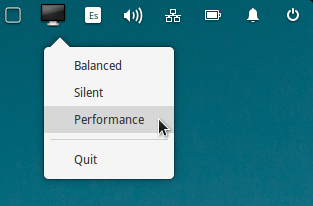
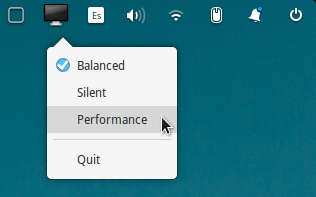
Add indicator to show the current thermal profile

diff --git a/vaio_indicator/indicator.py b/vaio_indicator/indicator.py
@@ -20,33 +20,38 @@ import pyudev
 from gi.repository import Gtk as gtk
 from gi.repository import AppIndicator3 as appindicator
 from gettext import gettext as _
+from vaio_indicator.vaio import Vaio
 
 
 class VaioIndicator:
-    profilesOptions = []
-    udevPath = "/sys/devices/platform/sony-laptop"
     indicatorName = "vaio-indicator"
     indicatorIcon = "system"
     indicatorCategory = appindicator.IndicatorCategory.HARDWARE
 
     def __init__(self):
+        self.device = Vaio()
+
         self.indicator = appindicator.Indicator.new(
             self.indicatorName,
             self.indicatorIcon,
-            self.indicatorCategory)
+            self.indicatorCategory
+        )
 
         self.indicator.set_status(appindicator.IndicatorStatus.ACTIVE)
-
-        self.retrive_device_information()
         self.build_menu()
 
     def build_menu(self):
         menu = gtk.Menu()
+        group = []
 
-        for option in self.profilesOptions:
-            item = gtk.MenuItem(_(option.capitalize()))
+        for option in self.device.get_thermal_profiles():
+            item = gtk.RadioMenuItem.new_with_label(group, _(option.capitalize()))
+            group = item.get_group()
+            if self.device.get_current_thermal_profile() == option:
+                print(option)
+                item.set_active(True)
+            item.connect("toggled", self.set_menu_option, option)
             menu.append(item)
-            item.connect("activate", self.set_thermal_control_profile, option)
             item.show()
 
         quit_separator = gtk.SeparatorMenuItem()
@@ -60,17 +65,9 @@ class VaioIndicator:
 
         self.indicator.set_menu(menu)
 
-    def set_thermal_control_profile(self, w, profile):
-        os.system('echo ' + profile + ' | pkexec tee ' + self.udevPath + '/thermal_control')
-
-    def retrive_device_information(self):
-        context = pyudev.Context()
-        devices = context.list_devices().match_subsystem('platform').match_property('DRIVER', 'sony-laptop')
-
-        for device in devices:
-            self.udevPath = device.sys_path
-            attributes = device.attributes
-            self.profilesOptions.extend(attributes.asstring('thermal_profiles').split())
+    def set_menu_option(self, widget, option):
+        if widget.get_active():
+            self.device.set_thermal_control_profile(option)
 
     def quit(self, widget):
         gtk.main_quit()

diff --git a/vaio_indicator/vaio.py b/vaio_indicator/vaio.py
@@ -1,0 +1,40 @@
+#
+# Copyright (C) 2015  Hector Molano <fiti.pol@gmail.com>
+#
+# This program is free software: you can redistribute it and/or modify
+#    it under the terms of the GNU General Public License as published by
+#    the Free Software Foundation, either version 3 of the License, or
+#    (at your option) any later version.
+#
+#    This program is distributed in the hope that it will be useful,
+#    but WITHOUT ANY WARRANTY; without even the implied warranty of
+#    MERCHANTABILITY or FITNESS FOR A PARTICULAR PURPOSE.  See the
+#    GNU General Public License for more details.
+#
+#    You should have received a copy of the GNU General Public License
+#    along with this program.  If not, see <http://www.gnu.org/licenses/>.
+#
+
+import os
+import pyudev
+
+
+class Vaio:
+    subsystem = "platform"
+    udev_path = "/sys/devices/platform/sony-laptop"
+
+    def __init__(self):
+        context = pyudev.Context()
+        devices = context.list_devices().match_subsystem(self.subsystem).match_property('DRIVER', 'sony-laptop')
+        for device in devices:
+            self.device = device
+            break
+
+    def get_thermal_profiles(self):
+        return self.device.attributes.asstring('thermal_profiles').split()
+
+    def get_current_thermal_profile(self):
+        return self.device.attributes.asstring('thermal_control')
+
+    def set_thermal_control_profile(self, profile):
+        os.system('echo ' + profile + ' | pkexec tee ' + self.udev_path + '/thermal_control')
